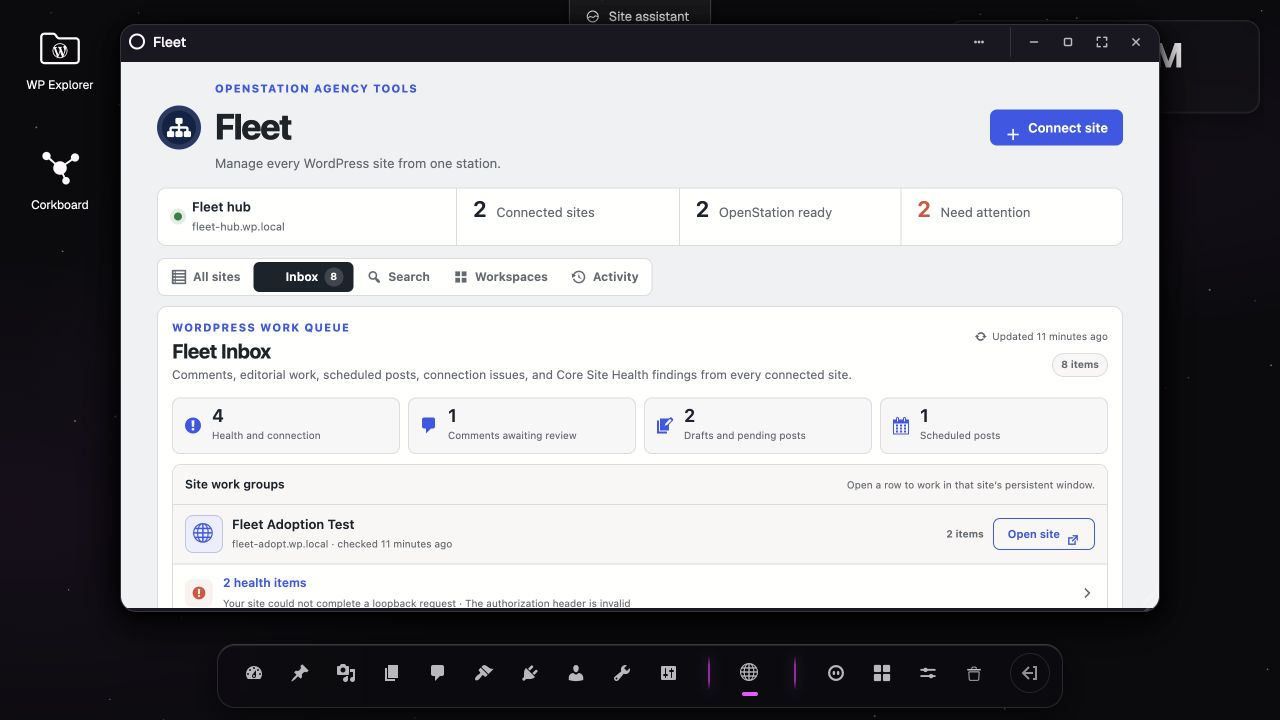
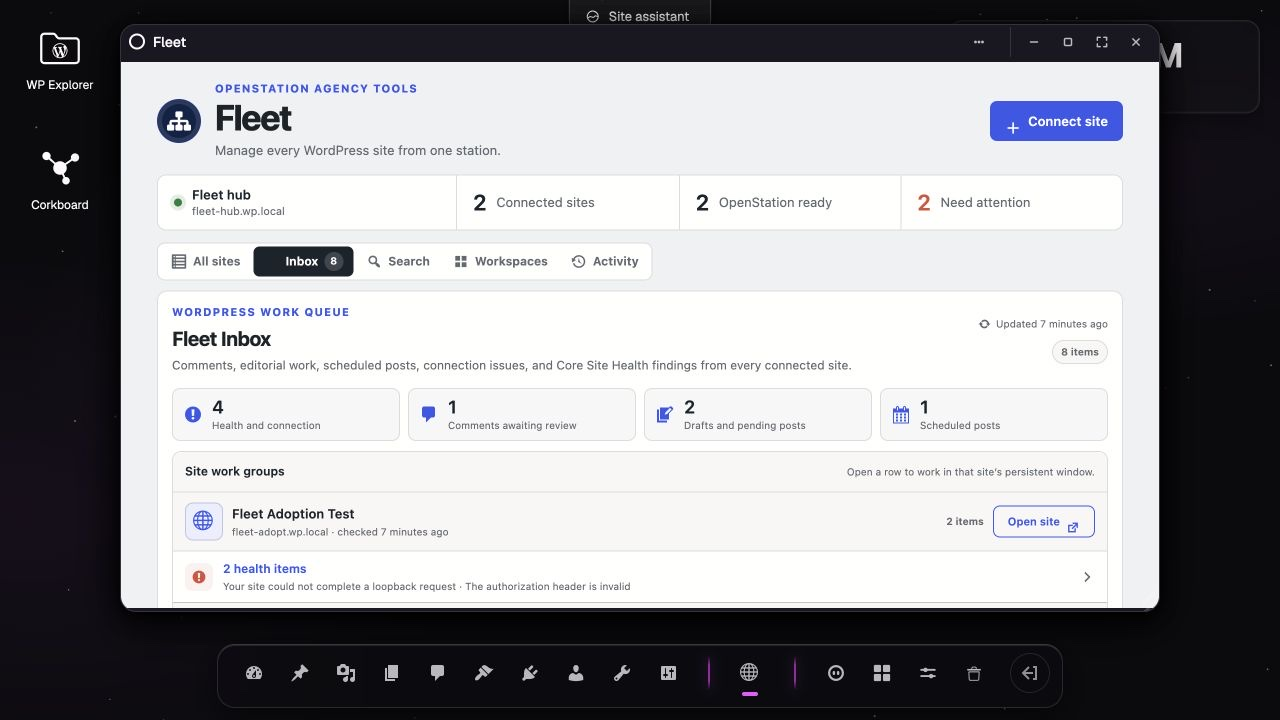
Polish Fleet layout and refresh screenshots

diff --git a/assets/admin.css b/assets/admin.css
@@ -3240,3 +3240,214 @@ body.toplevel_page_fleet-for-openstation #wpbody-content {
 		text-align: left;
 	}
 }
+
+/* Alignment pass. WordPress Core gives headings, selects, and checkboxes
+ * slightly different intrinsic geometry. Normalize those primitives here so
+ * every Fleet view shares the same baselines and control rhythm. */
+.fleet-app h1,
+.fleet-app h2,
+.fleet-app h3 {
+	padding: 0;
+}
+
+.fleet-app h2 {
+	line-height: 1.2;
+}
+
+.fleet-app h3 {
+	line-height: 1.3;
+}
+
+.fleet-app small {
+	line-height: 1.35;
+}
+
+.fleet-app .button {
+	min-height: 40px;
+}
+
+.fleet-app input[type="text"],
+.fleet-app input[type="url"],
+.fleet-app input[type="email"],
+.fleet-app input[type="password"],
+.fleet-app input[type="search"],
+.fleet-app select {
+	height: 40px;
+	min-height: 40px;
+	margin-top: 0;
+	margin-bottom: 0;
+}
+
+.fleet-app input[type="checkbox"],
+.fleet-app input[type="radio"] {
+	flex: 0 0 auto;
+	margin: 0;
+}
+
+.fleet-commandbar .fleet-hero__copy > div,
+.fleet-workspace-title > div,
+.fleet-inbox-site > header > div > span:last-child,
+.fleet-search-site > header > div,
+.fleet-workspace-group > header > span:last-child {
+	min-width: 0;
+}
+
+.fleet-summary__item {
+	align-items: center;
+}
+
+.fleet-summary__item strong,
+.fleet-summary__item span,
+.fleet-summary__hub strong,
+.fleet-summary__hub small {
+	line-height: 1.2;
+}
+
+.fleet-connect-form {
+	align-items: end;
+}
+
+.fleet-connect-form__control > .dashicons,
+.fleet-filter-search .dashicons {
+	top: 50%;
+	transform: translateY(-50%);
+}
+
+.fleet-connect-form .button {
+	height: 40px;
+}
+
+.fleet-connect-steps li {
+	min-height: 64px;
+}
+
+.fleet-filters {
+	align-items: stretch;
+}
+
+.fleet-filters select,
+.fleet-filters input[type="search"],
+.fleet-filters .button,
+.fleet-favorite-filter,
+.fleet-filter-clear {
+	height: 36px;
+	min-height: 36px;
+}
+
+.fleet-favorite-filter {
+	padding: 0 4px;
+}
+
+.fleet-filter-clear {
+	display: inline-flex;
+	align-items: center;
+	justify-content: center;
+}
+
+.fleet-bulk-form select,
+.fleet-bulk-form .button {
+	height: 36px;
+	min-height: 36px;
+}
+
+.fleet-tabs {
+	width: 100%;
+}
+
+.fleet-tabs a {
+	flex: 1 1 0;
+	min-width: 0;
+	min-height: 36px;
+	padding-top: 0;
+	padding-bottom: 0;
+}
+
+.fleet-context-strip {
+	min-height: 40px;
+}
+
+.fleet-context-strip > span:last-child {
+	line-height: 1.4;
+}
+
+.fleet-inbox-summary strong {
+	line-height: 1.1;
+}
+
+.fleet-inbox-summary small,
+.fleet-inbox-site header small,
+.fleet-search-site header small,
+.fleet-site-work-count,
+.fleet-inbox-group strong,
+.fleet-inbox-group small,
+.fleet-search-items small,
+.fleet-workspace-group header small {
+	line-height: 1.35;
+}
+
+.fleet-search-items a:last-child:nth-child(odd) {
+	grid-column: 1 / -1;
+}
+
+.fleet-inbox-summary .dashicons {
+	align-self: center;
+}
+
+.fleet-inbox-site__actions .button {
+	height: 32px;
+	min-height: 32px;
+}
+
+.fleet-global-search > label,
+.fleet-global-search > select,
+.fleet-global-search > .button {
+	height: 40px;
+	min-height: 40px;
+}
+
+.fleet-global-search input[type="search"] {
+	height: 38px;
+	min-height: 38px;
+}
+
+.fleet-task-card strong,
+.fleet-task-card small,
+.fleet-plugin-card strong,
+.fleet-plugin-card small,
+.fleet-recent-item strong,
+.fleet-recent-item small {
+	line-height: 1.35;
+}
+
+.fleet-plugin-install .button,
+.fleet-upload-form .button,
+.fleet-content-row .button,
+.fleet-comment-card .button,
+.fleet-form-actions .button {
+	height: 40px;
+	min-height: 40px;
+}
+
+.fleet-content-row {
+	align-items: start;
+}
+
+.fleet-content-row label {
+	line-height: 1.3;
+}
+
+.fleet-content-row > .button {
+	margin-top: 22px;
+}
+
+@media (max-width: 720px) {
+	.fleet-tabs a {
+		flex: 0 0 auto;
+		min-width: 88px;
+	}
+
+	.fleet-favorite-filter,
+	.fleet-filter-clear {
+		justify-content: flex-start;
+	}
+}
